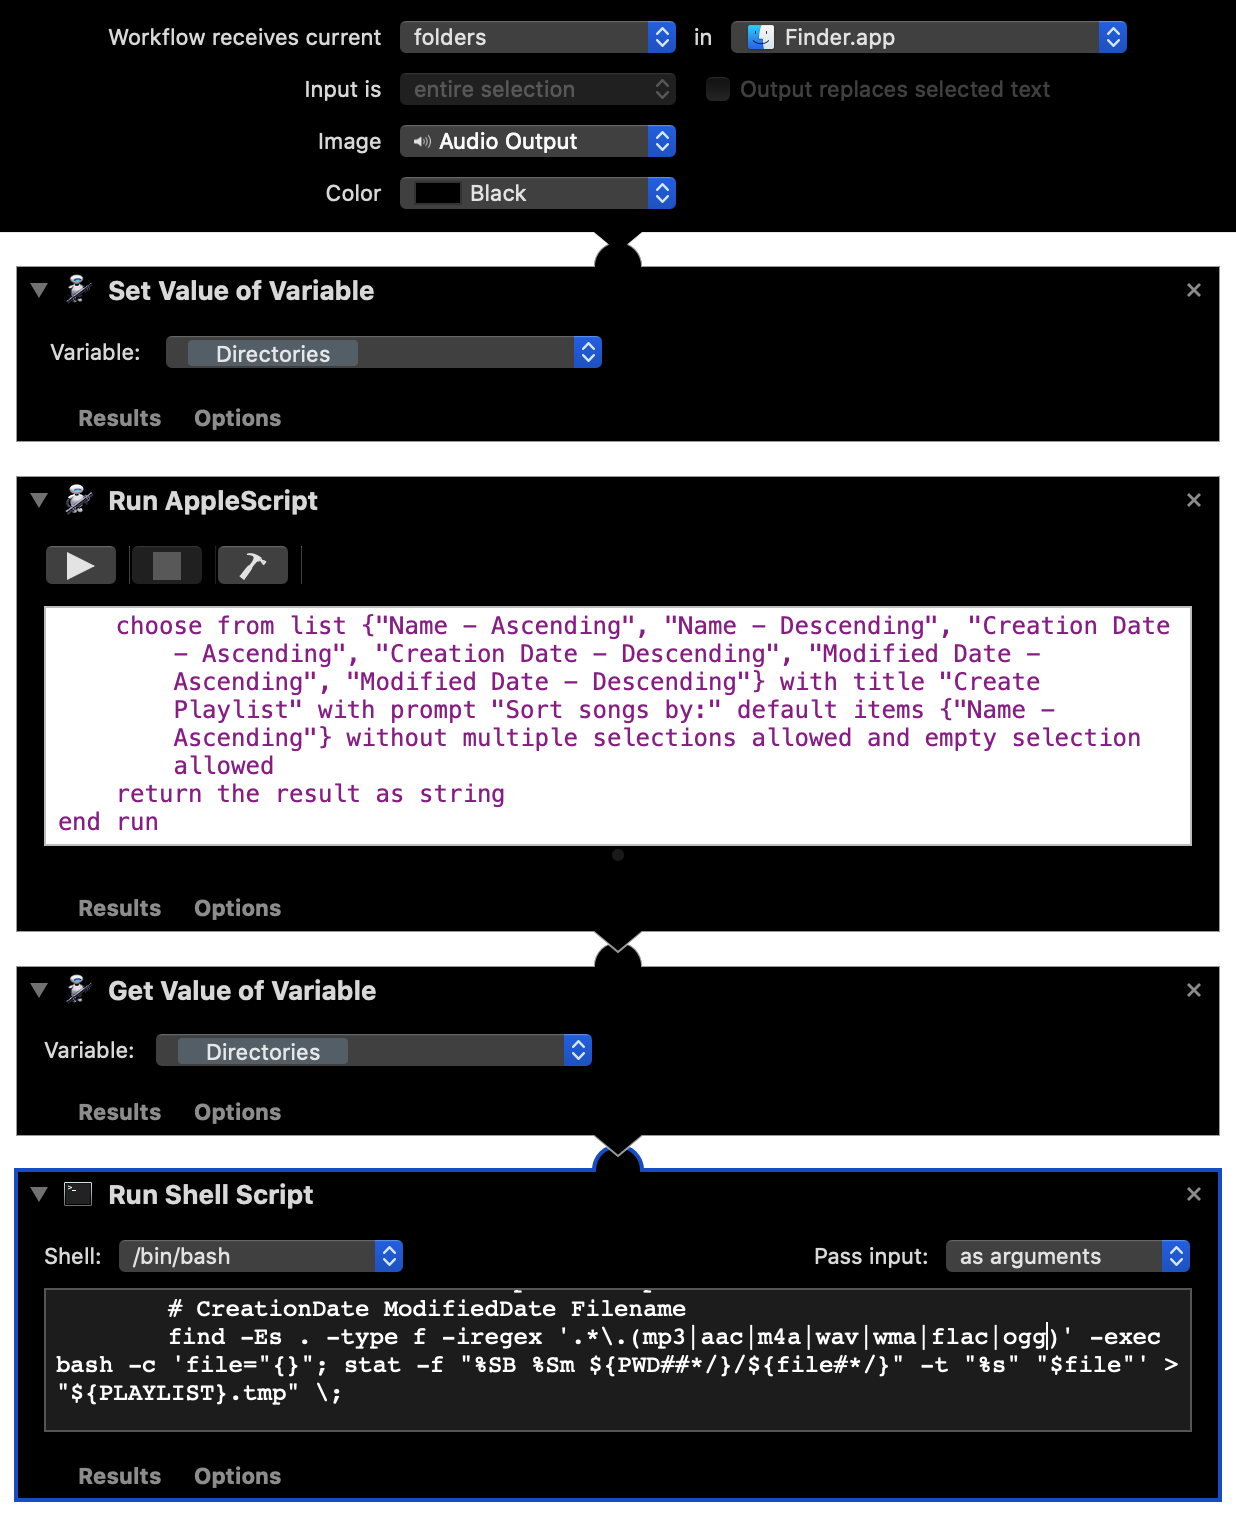
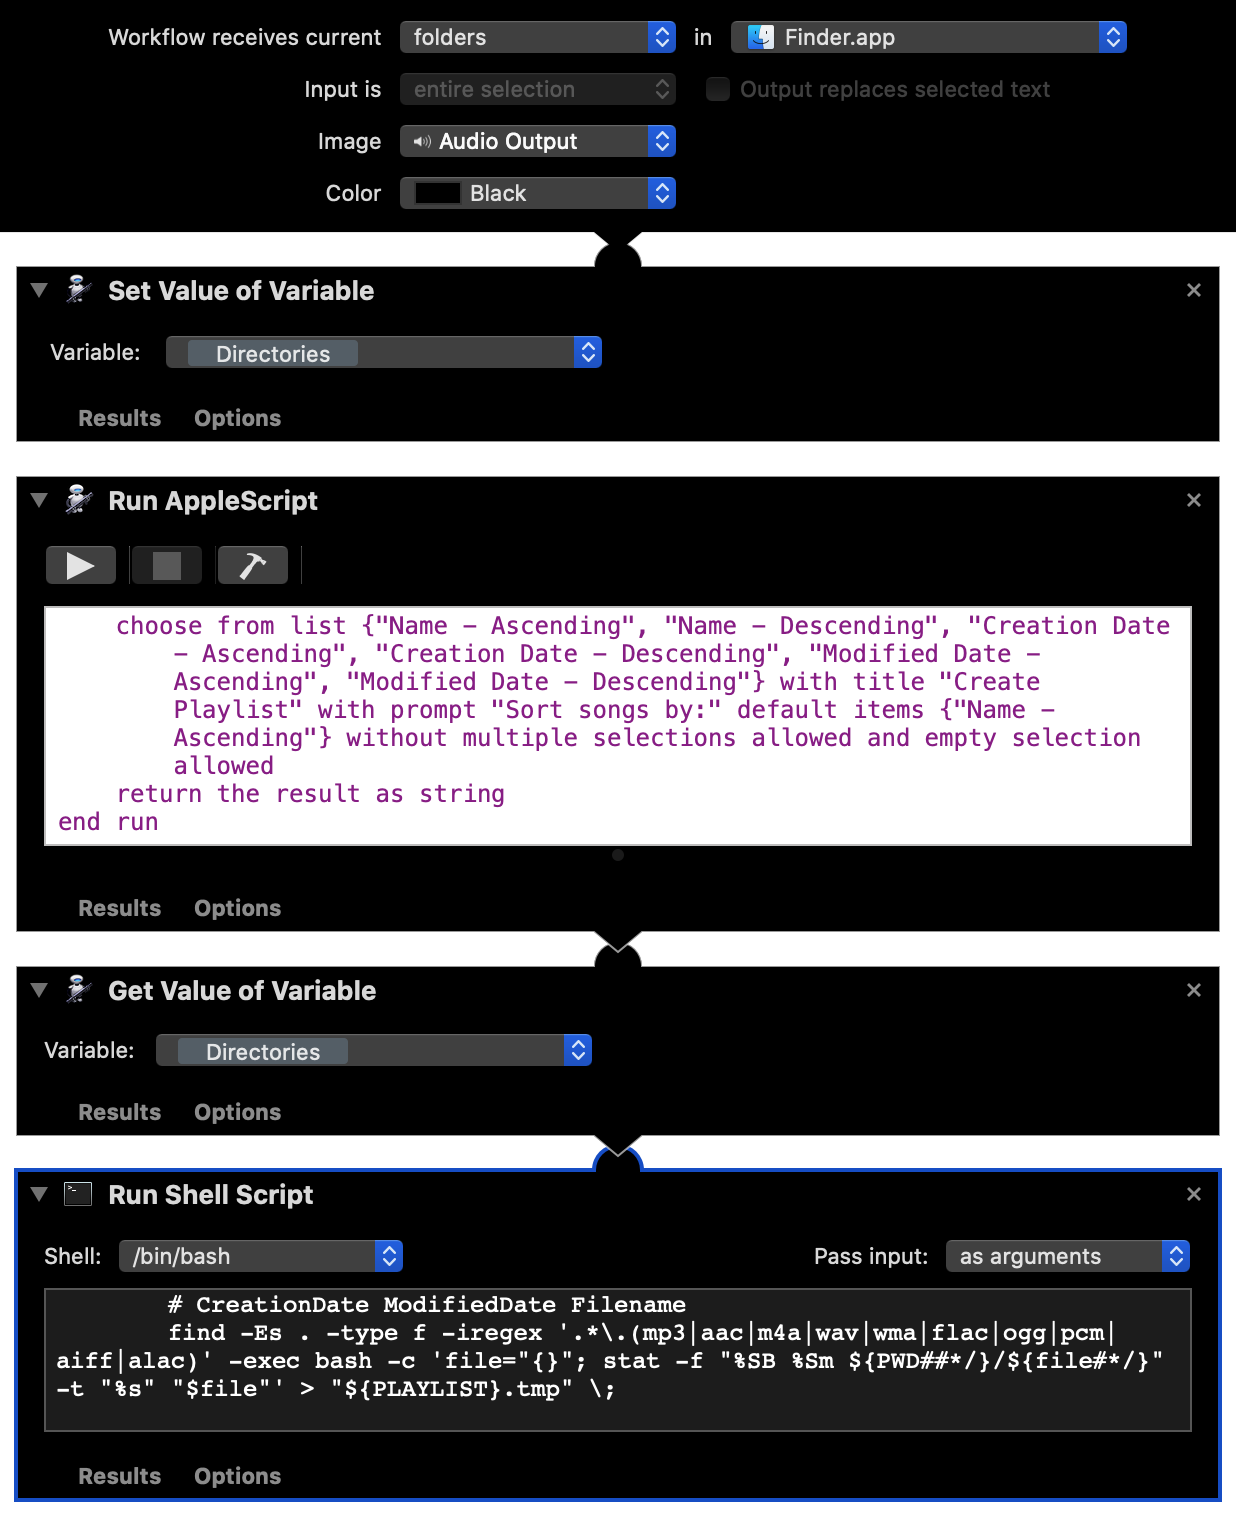
add .pcm, .aiff, and .alac support

Changed region(s): [[0.0307, 0.8327, 0.9531, 0.9252]]

diff --git a/README.md b/README.md
@@ -18,17 +18,13 @@ You can also select multiple folders.
 Right click and select Services, Create Playlist as before and you'll get a .m3u file for each folder selected!
 Note: There may be a limit to the number of folders the workflow can process at a time...
 
-This script will find .mp3, .aac, .m4a, .wav, .wma, .flac, and .ogg files.
+This script will find .mp3, .aac, .m4a, .wav, .wma, .flac, .ogg, .pcm, .aiff, and .alac files.
 If there are any others you think it should support, file an Issue.
 
 How Does it Work?
 -----------------
 
 This is an [Automator](http://macosxautomation.com/automator/) workflow that runs a simple shell script.
-Here's the meat of the workflow:
-
-[![Create Playlist Shell Script](https://raw.githubusercontent.com/bmatcuk/Create-Playlist.workflow/master/Contents/QuickLook/Thumbnail.png)](https://raw.githubusercontent.com/bmatcuk/Create-Playlist.workflow/master/Contents/QuickLook/Thumbnail.png)
-
 The script loops through the arguments (the selected folders, in this case), switches to that folder, and then searches for audio files recursively.
 Whenever an audio file is found, it is appended to the m3u file using some appropriate formatting.
 
